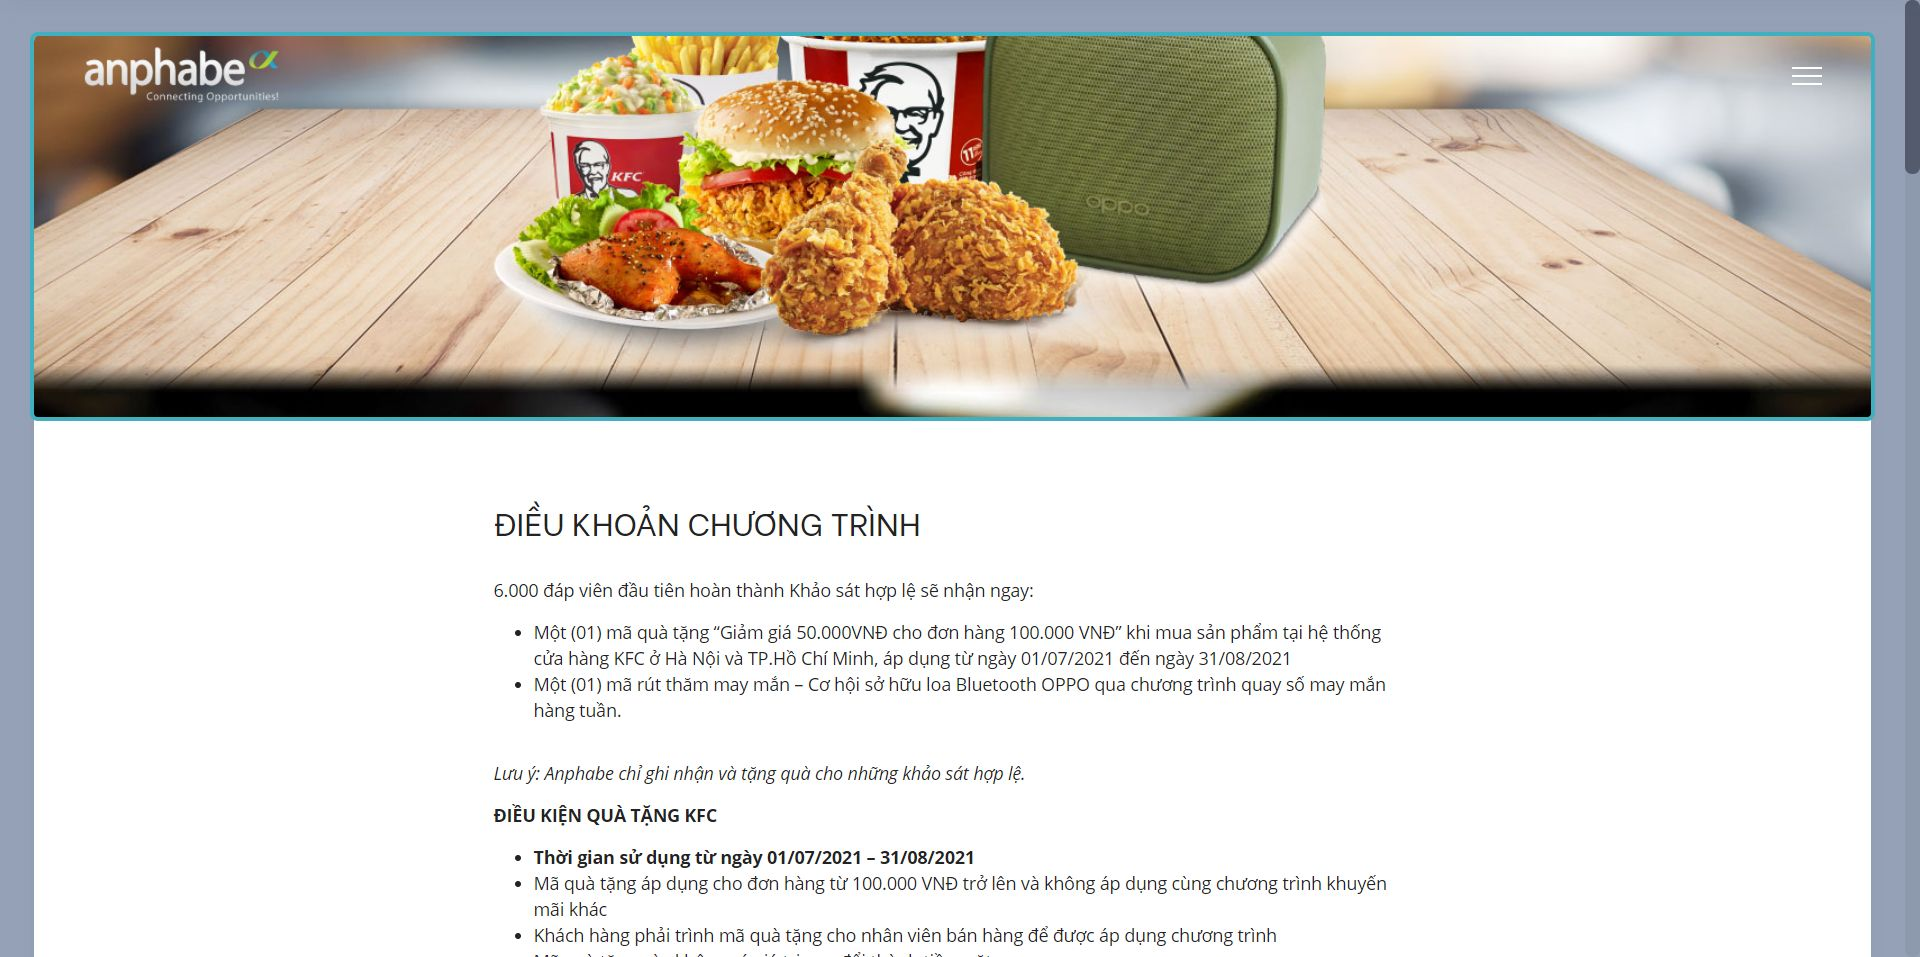
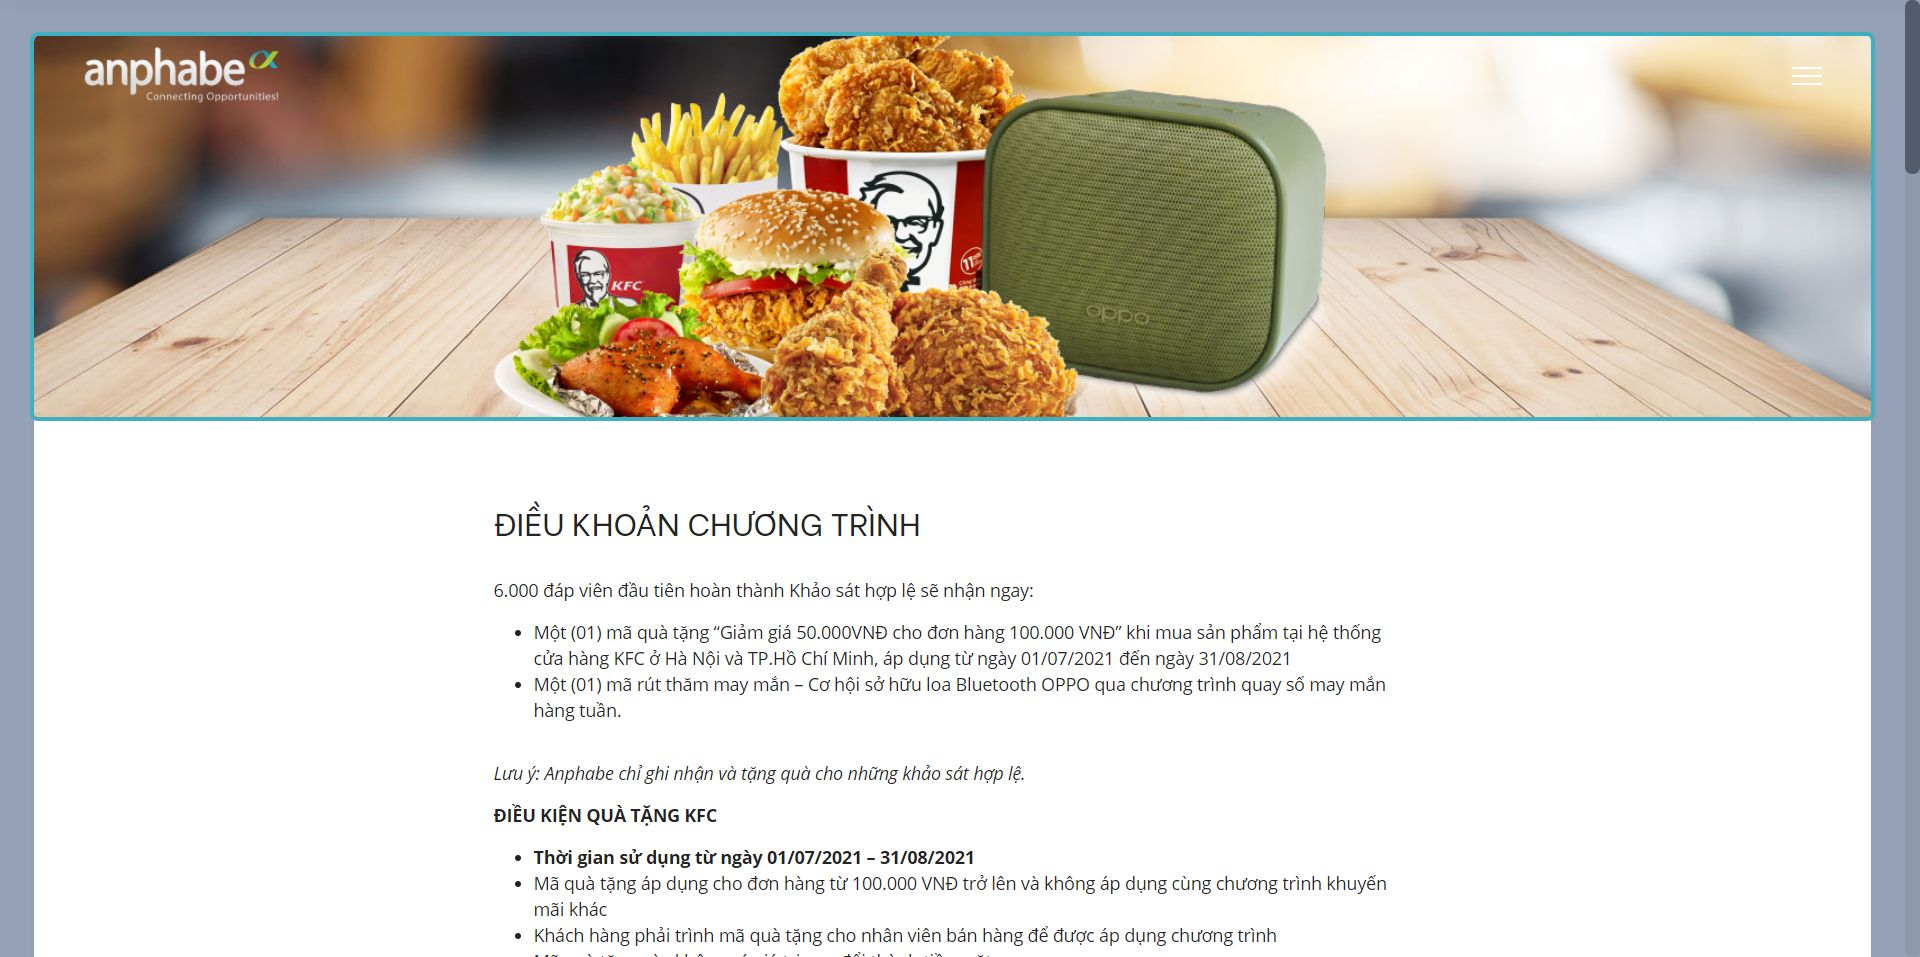
update

diff --git a/assets/mobirise/css/mbr-additional.css b/assets/mobirise/css/mbr-additional.css
@@ -692,7 +692,7 @@ a {
     min-height: 14vh;
   }
 }
-@media (min-width: 768px) and (max-width: 991px) {
+@media (min-width: 992px) {
   .cid-ss0vz7Athm {
     min-height: 23vh;
   }
